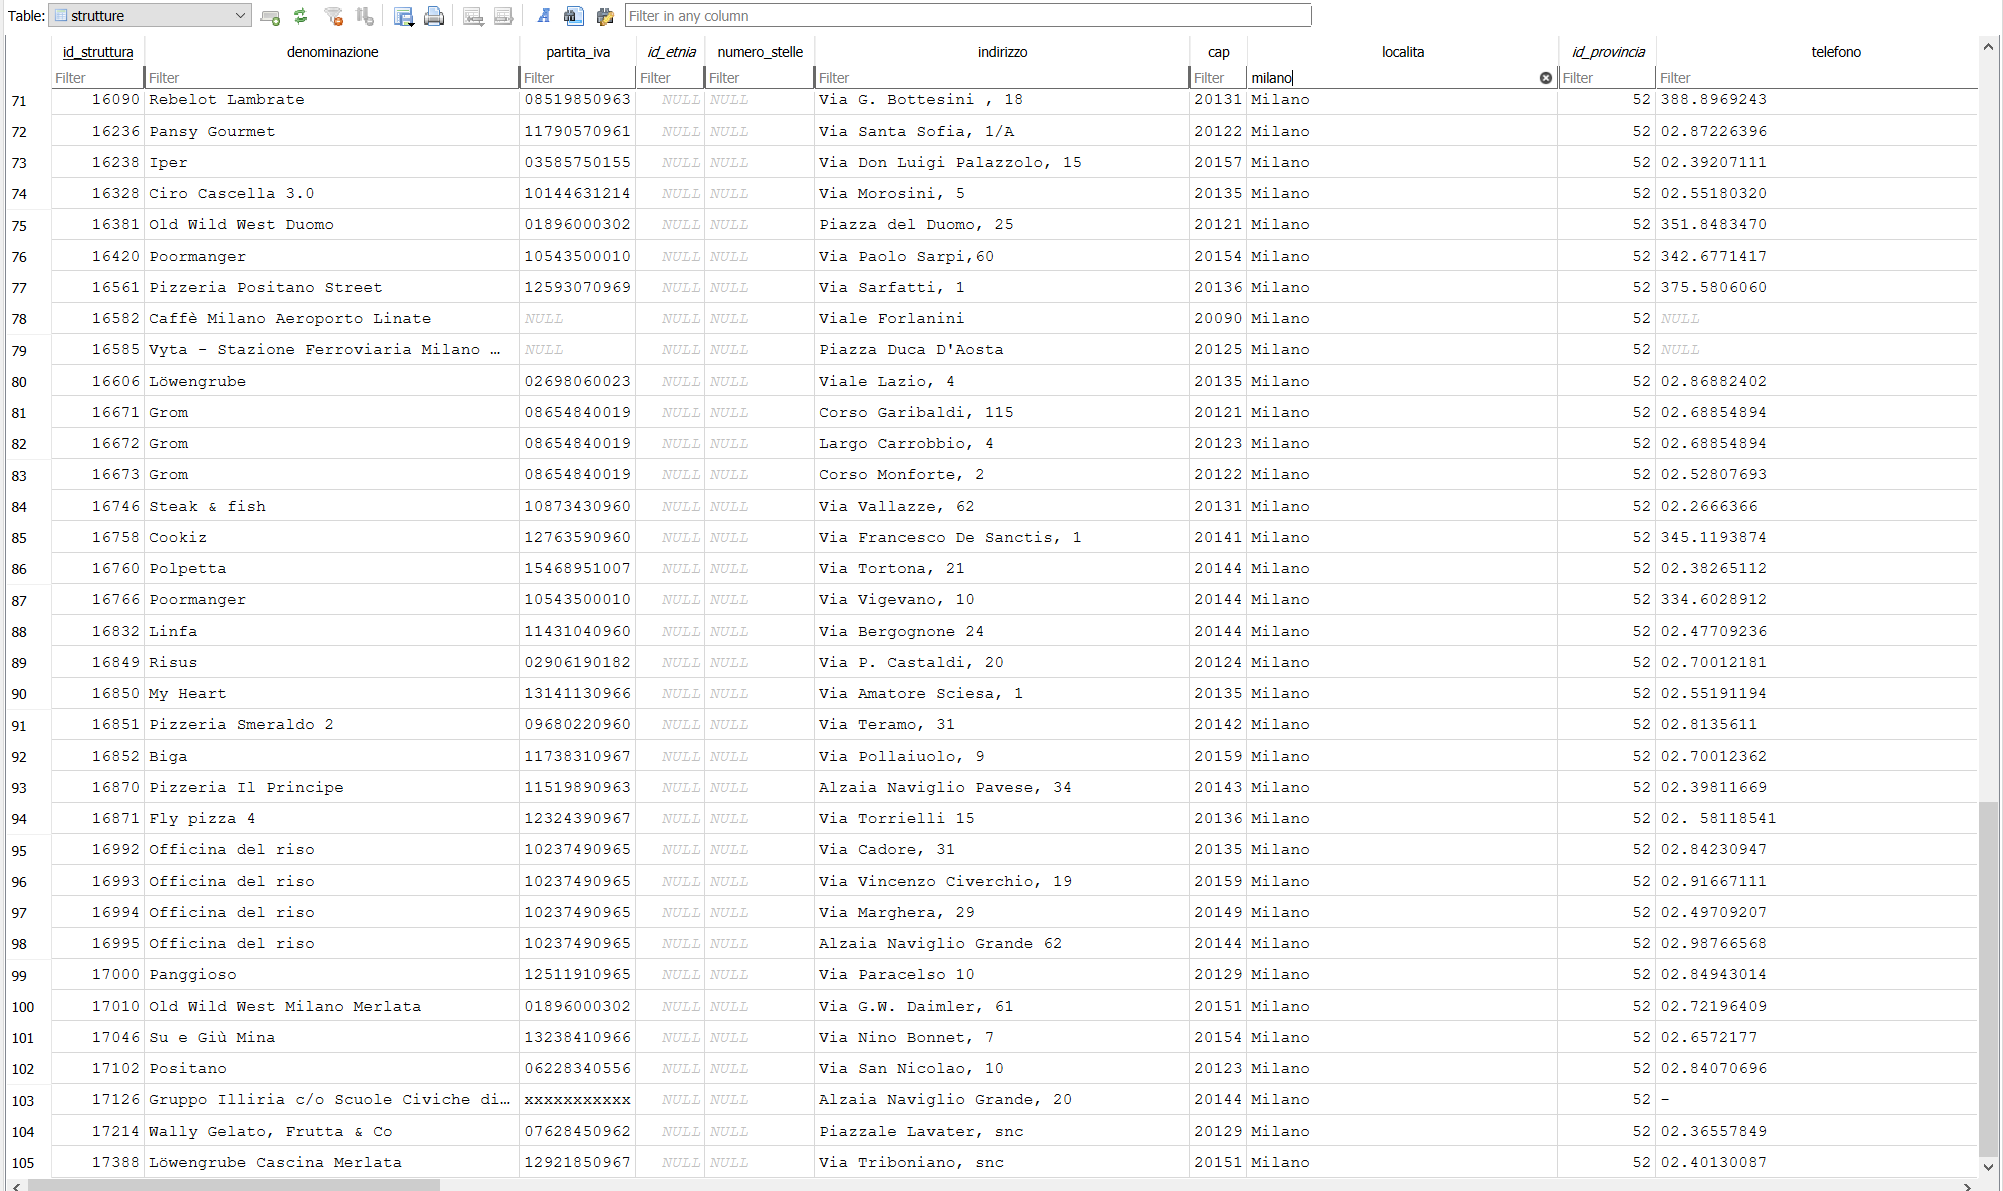
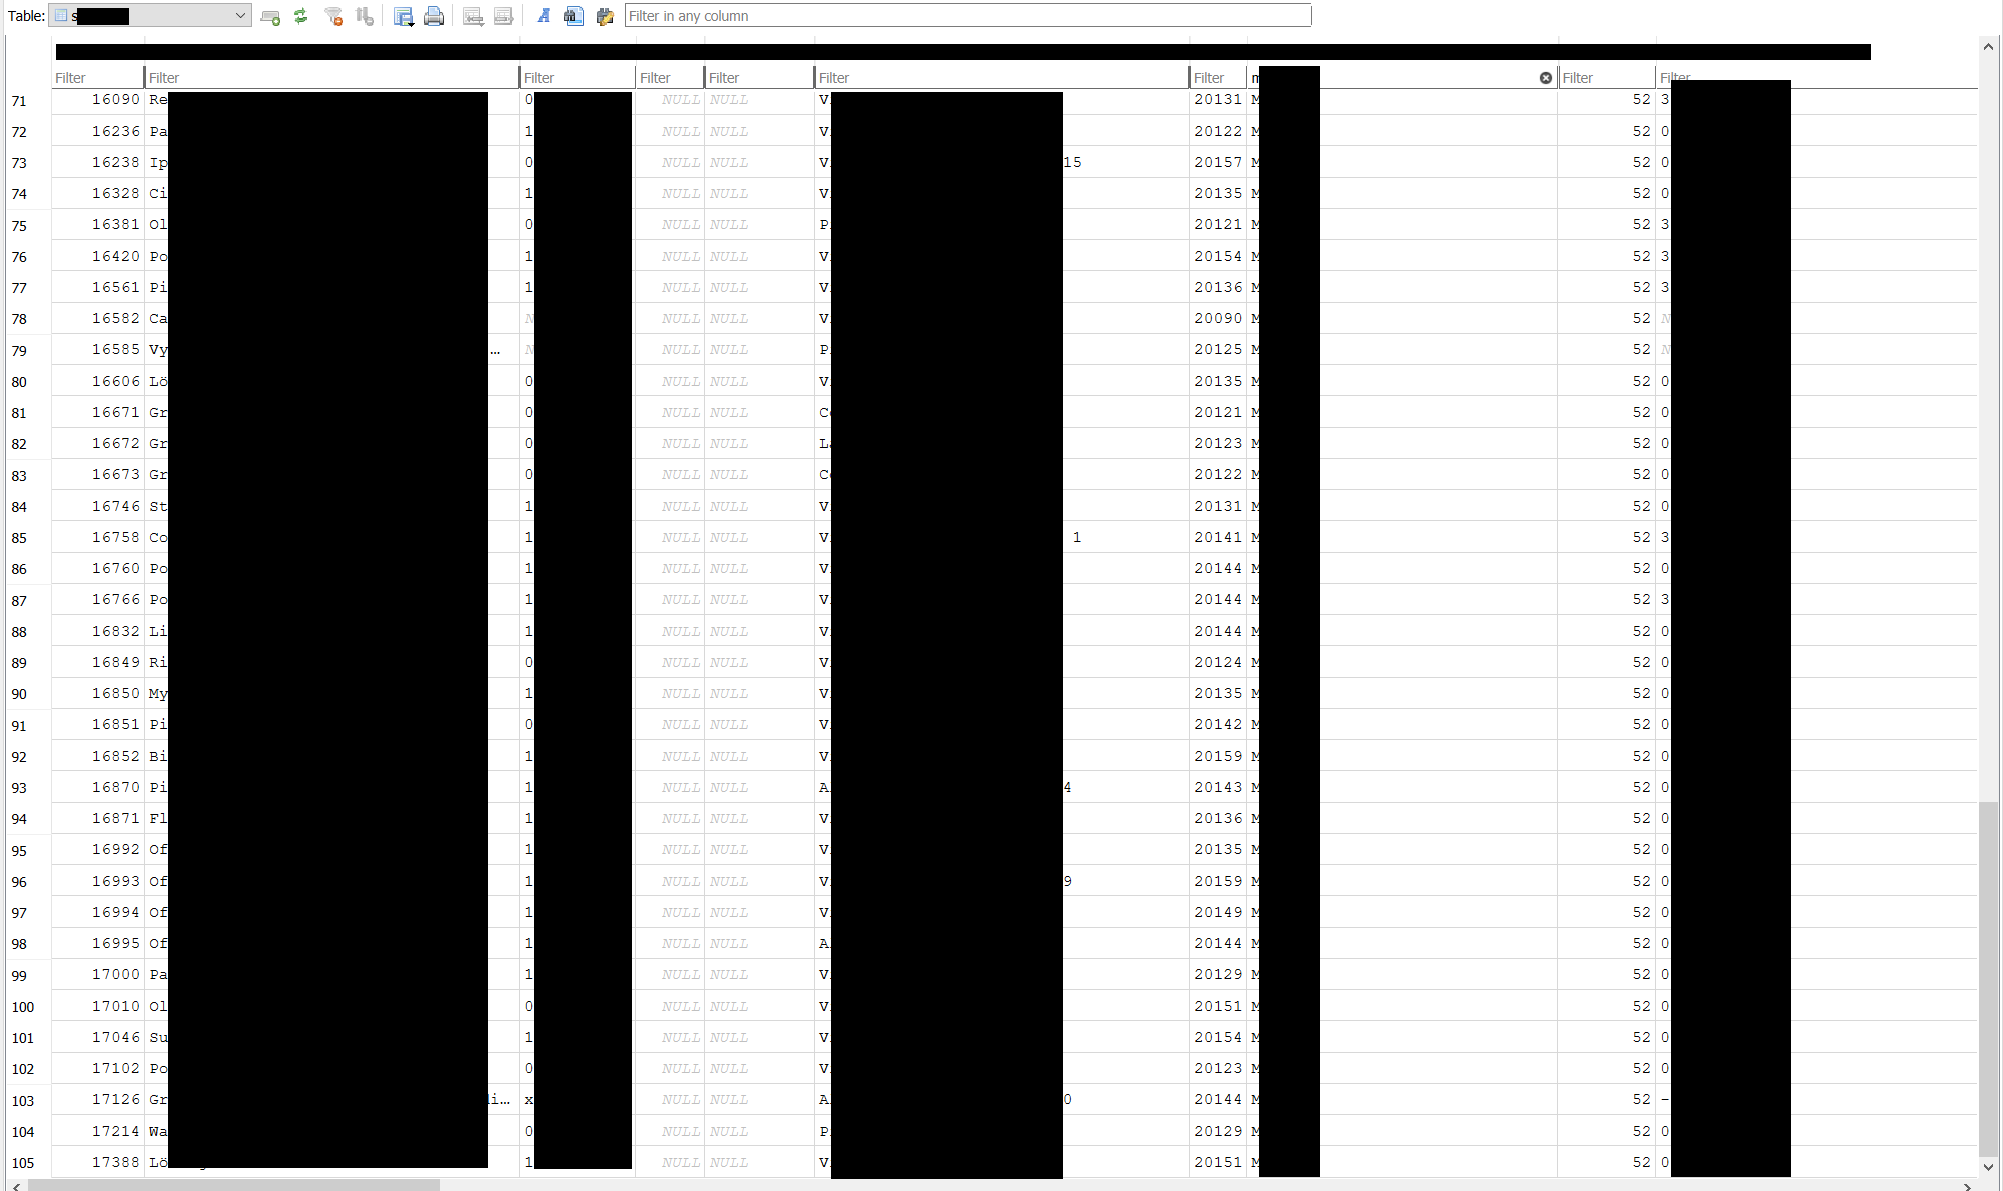
fixed first post

diff --git a/_posts/2024-08-03-bypassing-gluten-free-paywall.md b/_posts/2024-08-03-bypassing-gluten-free-paywall.md
@@ -1,6 +1,6 @@
 ---
 title: Bypassing the Gluten-Free Paywall
-categories: [dev, android]
+categories: [dev]
 comments: true
 ---
 
@@ -42,7 +42,7 @@ These encrypted database files are hosted on a CDN and seem to be updated often.
 
 ```java
  public synchronized SQLiteDatabase getReadableDatabase() {
-     return getReadableDatabase(A******fcAfcCategoria.dk1 + A******fcfcRating.dk2 + Brand.dk3 + Category.dk4 
+     return getReadableDatabase(A******fcAfcCat****ia.dk1 + A******fcRating.dk2 + Brand.dk3 + Category.dk4 
      + InfoAg******a.dk5 + Product.dk6 + Prov******a.dk7 + Company.dk8);
  }
 ```
@@ -51,7 +51,7 @@ Clearly this is an attempt at obfuscating the key. However by searching for defi
 
 
 ```java
-A******fcAfcCategoria.dk1 = "hMoz#kTU"
+A******fcAfcCat****ia.dk1 = "hMoz#kTU"
 A******fcfcRating.dk2 = "BcQTbMXQ"
 Brand.dk3 = "6zLxKgR4"
 Category.dk4 = "kEd9kAKF"
@@ -97,7 +97,8 @@ This means that the following settings can be applied within [DB Browser for SQL
 "plaintext_header_size: 0
 ```
 
-Now we can access the full list of certified restaurants
+Now we can access the full list of certified restaurants (this picture is so heavily obfuscated it could be a completely random DB):
+
 ![Image](/assets/img/gluten_free_db_decrypt.png)
 
 
